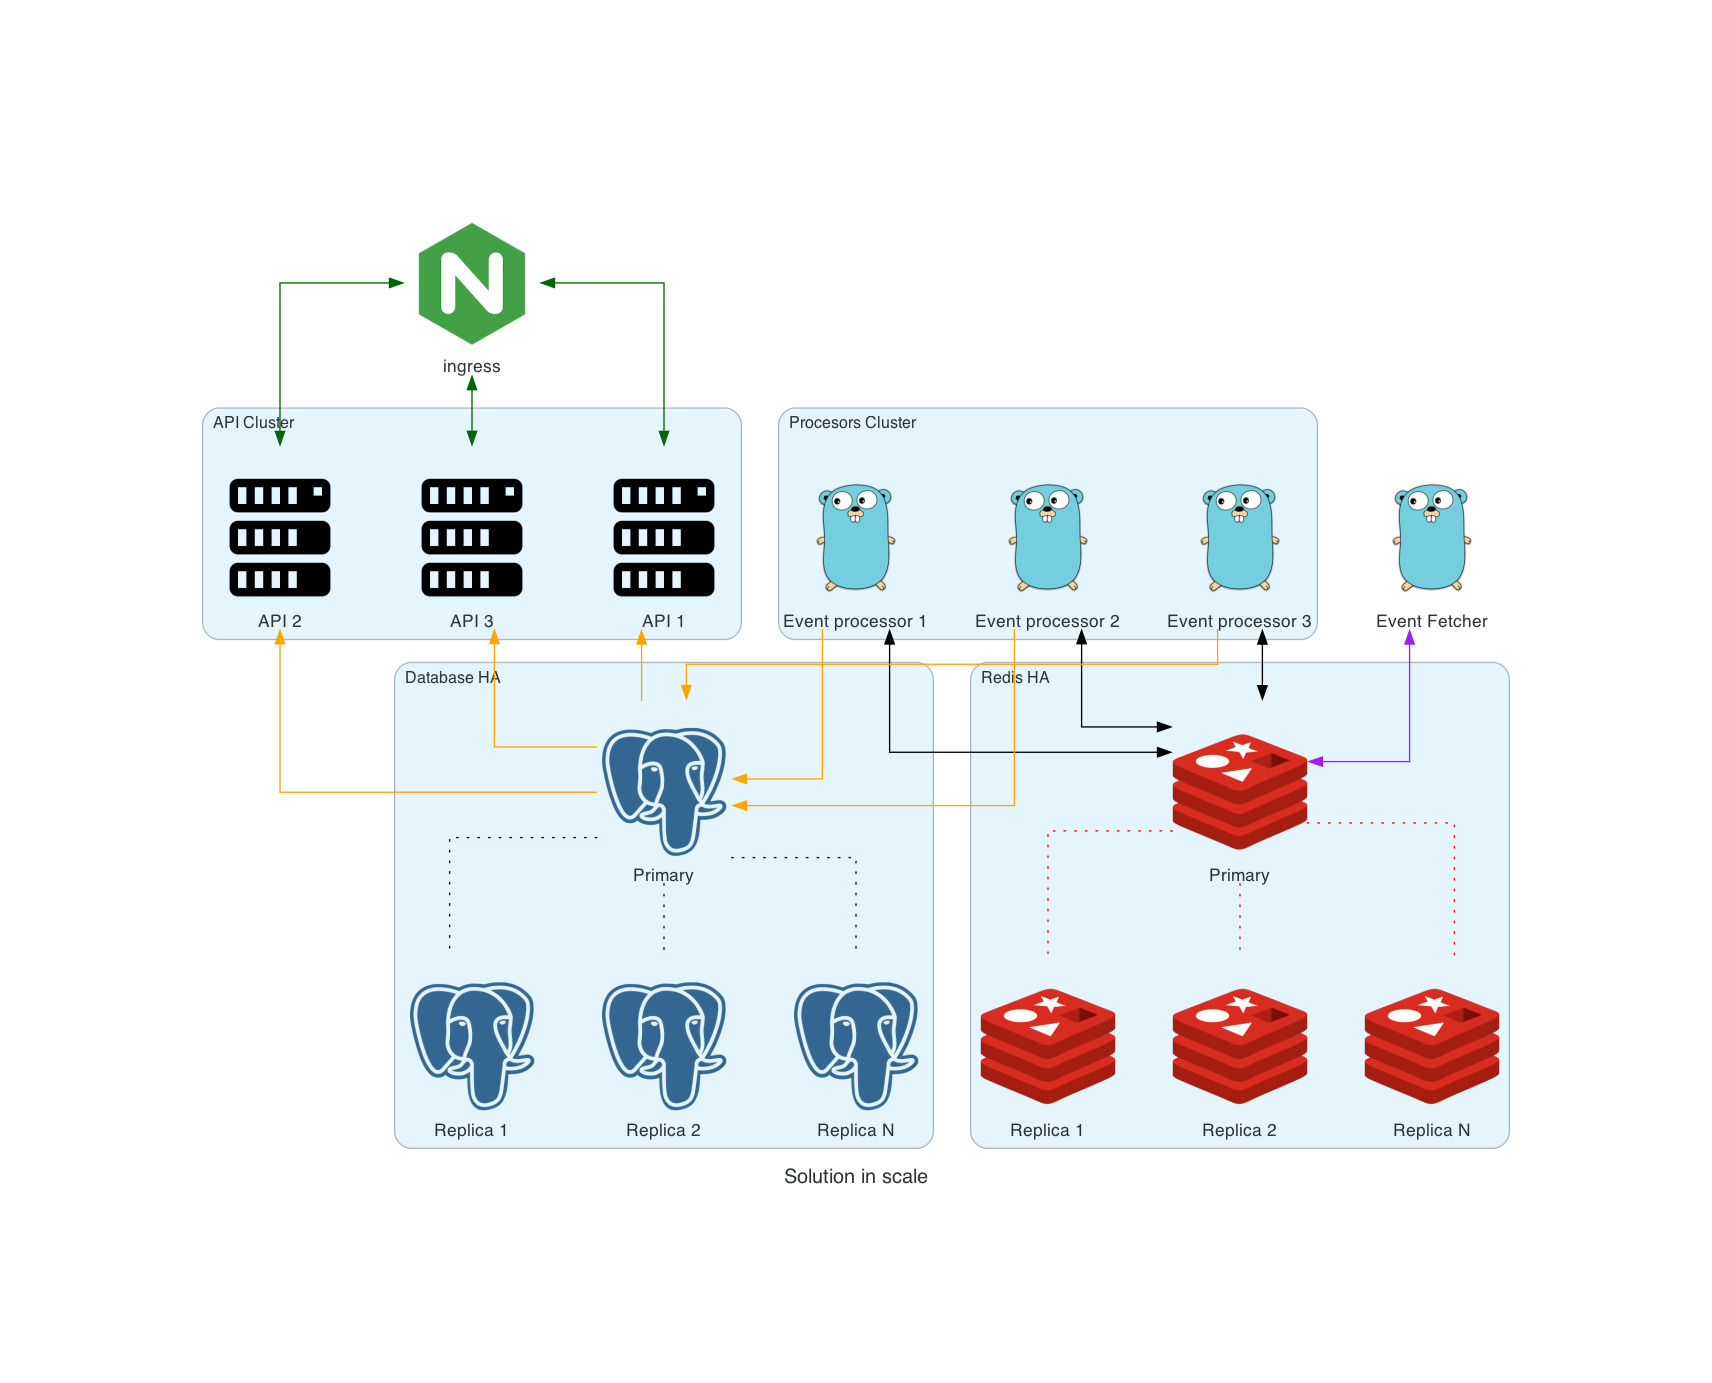
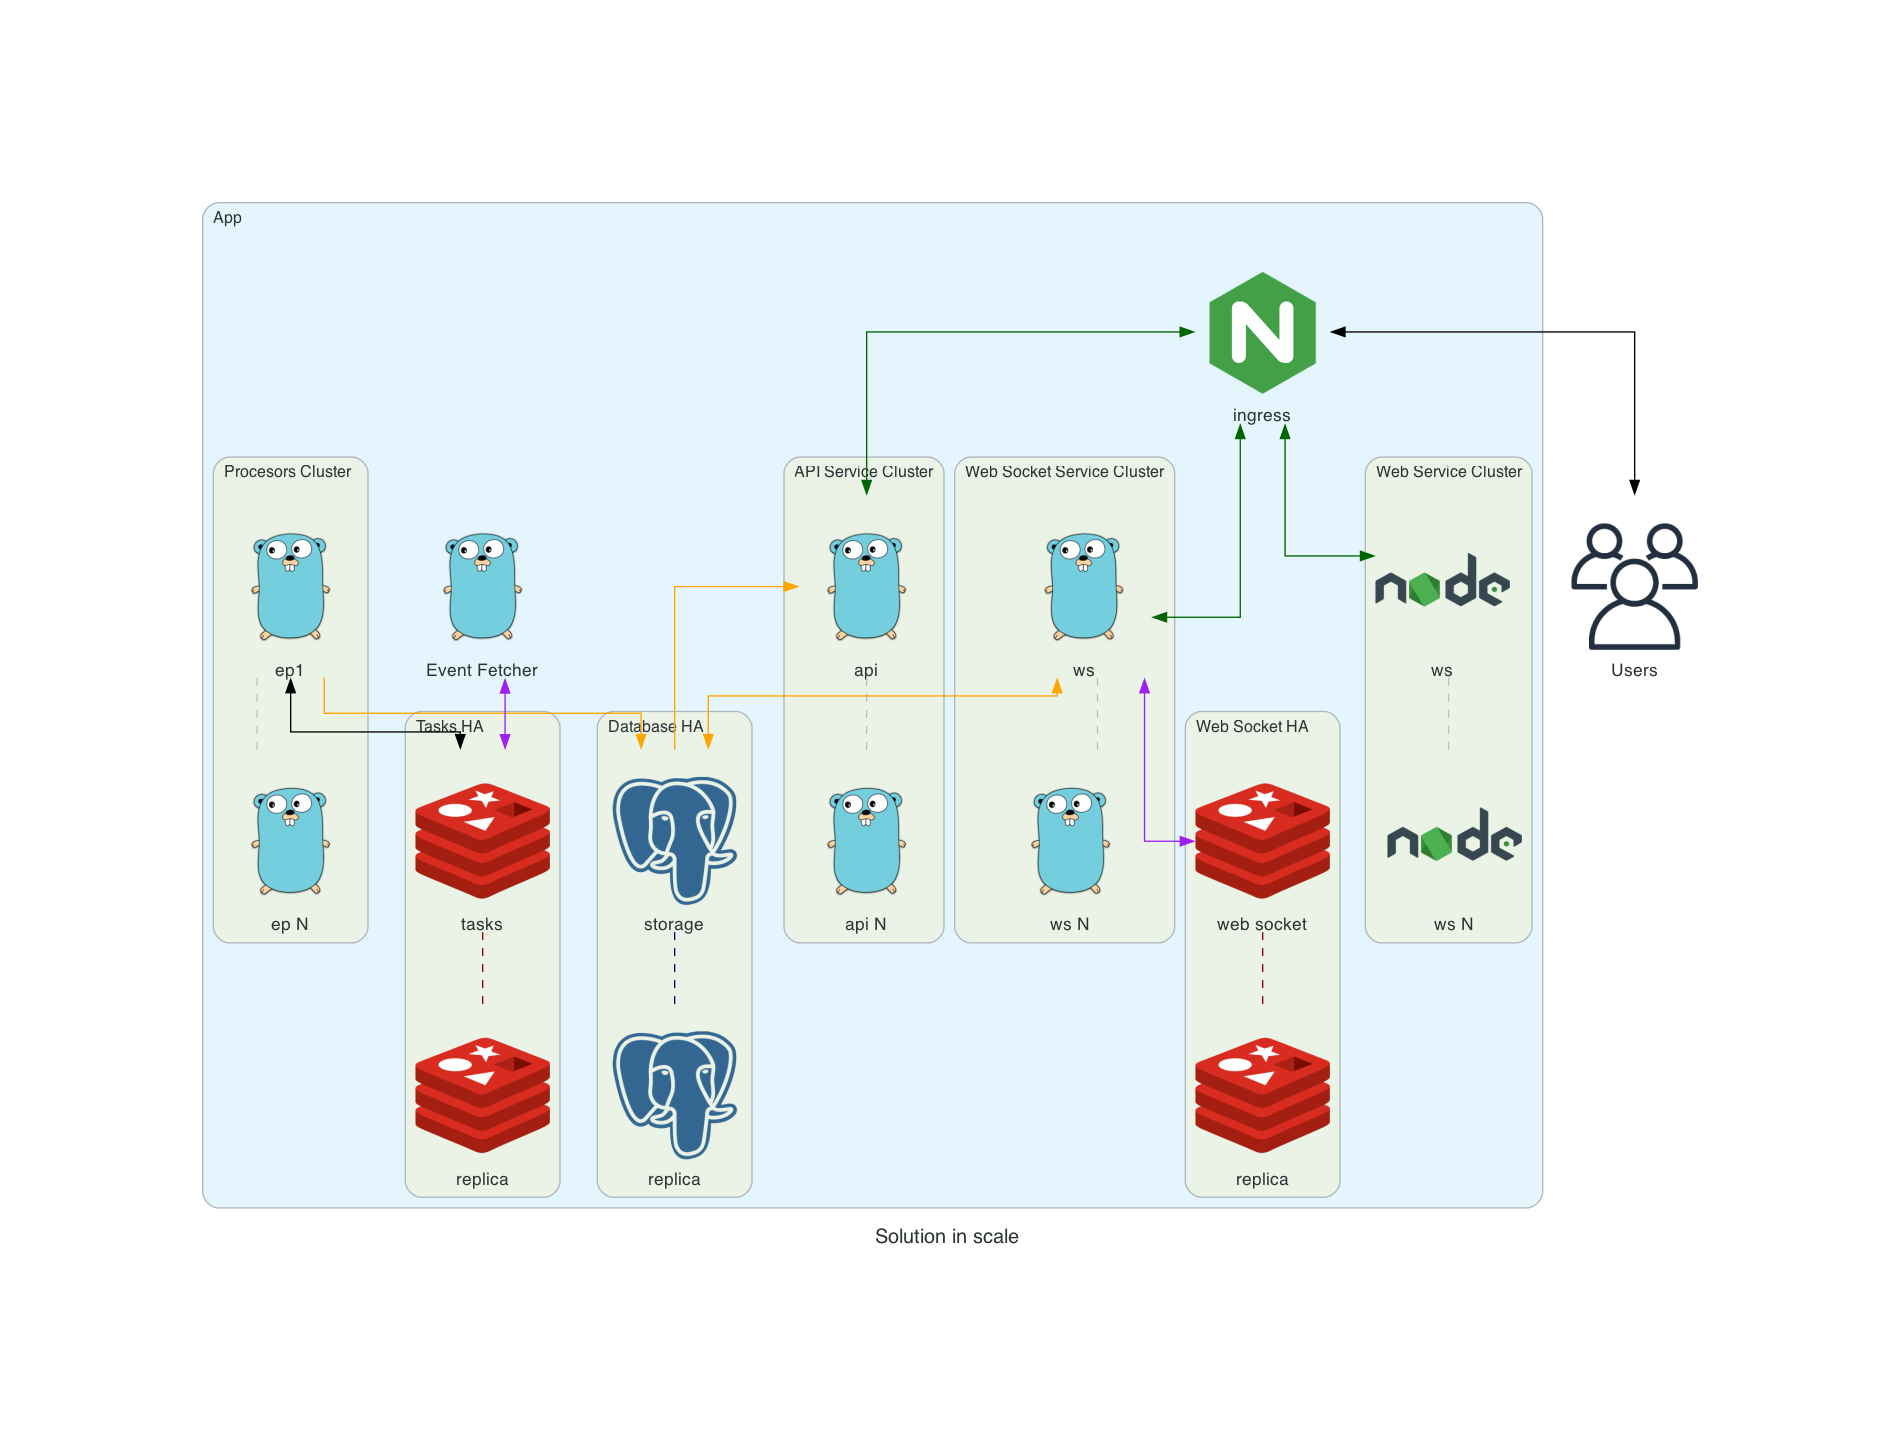
Update architectural designs

Changed region(s): [[0.0929, 0.1244, 0.8978, 0.8706]]

diff --git a/scripts/architectureDiagram.py b/scripts/architectureDiagram.py
@@ -2,10 +2,11 @@
 
 from diagrams import Cluster, Diagram, Edge
 from diagrams.onprem.compute import Server
+from diagrams.onprem.client import Users
 from diagrams.onprem.database import PostgreSQL
 from diagrams.onprem.inmemory import Redis
 from diagrams.onprem.network import Nginx
-from diagrams.programming.language import Go
+from diagrams.programming.language import Go, NodeJS
 
 graph_attr = {"bgcolor": "white"}
 
@@ -16,50 +17,59 @@ with Diagram(
     graph_attr=graph_attr,
     direction="TB",
 ):
-    ingress = Nginx("ingress")
-    event_fetcher = Go("Event Fetcher")
+    users = Users("Users")
 
-    with Cluster("API Cluster"):
-        api = [
-            Server("API 1"),
-            Server("API 2"),
-            Server("API 3"),
-        ]
+    with Cluster("App"):
+        ingress = Nginx("ingress")
+        event_fetcher = Go("Event Fetcher")
 
-    with Cluster("Database HA"):
-        db_primary = PostgreSQL("Primary")
-        (
-            db_primary
-            - Edge(color="darkblue", style="dotted")
-            - [
-                PostgreSQL("Replica 1"),
-                PostgreSQL("Replica 2"),
-                PostgreSQL("Replica N"),
-            ]
-        )
+        with Cluster("Web Service Cluster"):
+            web = NodeJS("ws")
+            web - Edge(color="gray", style="dashed") - NodeJS("ws N")
 
-    with Cluster("Procesors Cluster"):
-        event_processor = [
-            Go("Event processor 1"),
-            Go("Event processor 2"),
-            Go("Event processor 3"),
-        ]
+        with Cluster("API Service Cluster"):
+            api = Go("api")
+            api - Edge(color="gray", style="dashed") - Go("api N")
 
-    with Cluster("Redis HA"):
-        redis_primary = Redis("Primary")
-        (
-            redis_primary
-            - Edge(color="red", style="dotted")
-            - [
-                Redis("Replica 1"),
-                Redis("Replica 2"),
-                Redis("Replica N"),
-            ]
-        )
+        with Cluster("Web Socket Service Cluster"):
+            web_socket = Go("ws")
+            web_socket - Edge(color="gray", style="dashed") - Go("ws N")
 
-    event_fetcher >> Edge(color="purple") << redis_primary
-    event_processor >> Edge(color="orange") >> db_primary
-    event_processor >> Edge(color="black") << redis_primary
+        with Cluster("Procesors Cluster"):
+            event_processor = Go("ep1")
+            event_processor - Edge(color="gray", style="dashed") - Go("ep N")
 
-    api << Edge(color="orange") << db_primary
-    ingress >> Edge(color="darkgreen") << api
+        with Cluster("Database HA"):
+            db_primary = PostgreSQL("storage")
+            db_primary - Edge(color="darkblue", style="dashed") - PostgreSQL("replica")
+
+            event_processor >> Edge(color="orange") >> db_primary
+            api << Edge(color="orange") << db_primary
+            web_socket >> Edge(color="orange") << db_primary
+
+        with Cluster("Tasks HA"):
+            redis_tasks_primary = Redis("tasks")
+            (
+                redis_tasks_primary
+                - Edge(color="darkred", style="dashed")
+                - Redis("replica")
+            )
+
+            event_fetcher >> Edge(color="purple") << redis_tasks_primary
+            event_processor >> Edge(color="black") << redis_tasks_primary
+
+        with Cluster("Web Socket HA"):
+            redis_ws_primary = Redis("web socket")
+            (
+                redis_ws_primary
+                - Edge(color="darkred", style="dashed")
+                - Redis("replica")
+            )
+
+            web_socket >> Edge(color="purple") << redis_ws_primary
+
+        ingress >> Edge(color="darkgreen") << web
+        ingress >> Edge(color="darkgreen") << api
+        ingress >> Edge(color="darkgreen") << web_socket
+
+        ingress >> Edge(color="black") << users

diff --git a/doc/README.md b/doc/README.md
@@ -43,6 +43,14 @@ Processes fetched events and stores them in the database.
 - PostgreSQL for persistent storage of plans
 - Redis for caching and job queuing
 
+5. **Web Layer Layer**
+Web client that inbteracts with the user and displays all the events available.
+
+This layer is also responsible for managing all web clients attempting to purchase event tickets when demand exceeds capacity. It efficiently administers the queue, ensuring fair and orderly access for all users.
+
+6. **Queue Layer**
+The WebSocket service handles all client connections in real time and manages the queue system, providing seamless updates and communication between the server and users.
+
 ### Component Workflows
 
 1. API Flow
@@ -95,6 +103,36 @@ sequenceDiagram
     DB-->Processor: Event saved
     Processor-->Redis: Finish the job
     Redis->>Processor: Job finished
+```
+
+4. Queue Flow
+
+```mermaid
+sequenceDiagram
+    autonumber
+
+    User-->Web: Purchase tickets for this event
+    Web-->Queue: This event needs a queue.
+    Queue-->Web: No
+    Web-->User: Display event and ticket information
+```
+
+```mermaid
+sequenceDiagram
+    autonumber
+
+    User-->Web: Purchase tickets for this event
+    Web-->Queue: This event needs a queue.
+    Queue-->Web: Yes
+    Web-->User: Display the queue layout
+    User-->Web: Checking ..
+    Web-->Queue: I'm out of the queue
+    Queue-->Web: No
+    Web-->Queue: I'm out of the queue
+    Queue-->Web: No
+    Web-->Queue: I'm out of the queue
+    Queue-->Web: Yes - Until is out of the queue
+    Web-->User: Display event and ticket information
 ```
 
 ## Deployment
@@ -151,3 +189,8 @@ Event Processor
 
 - Worker Scaling: Adjust worker count based on queue size
 - Prioritization: Process high-value events first
+
+Queue System
+
+- Validates whether a new WebSocket connection can be established when a base plan exists.
+- Cleans up inactive or outdated WebSocket connections.
